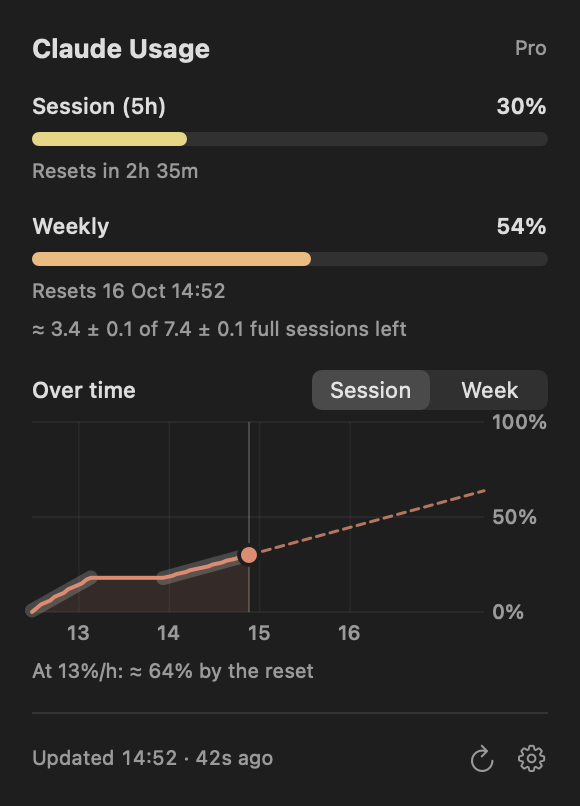
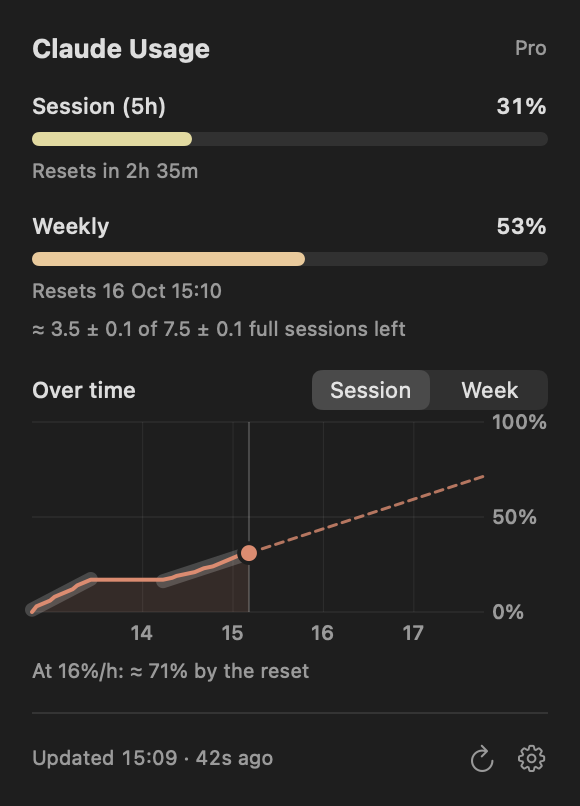
Close the dropdown on clicks at the top screen edge; pastel bar colors
With the pointer against the top of the screen, the press lands in the system menu
bar first (MenuBarExtra closes the dropdown as for an outside click) and is then
forwarded to the status item, whose button reopened it on release. Drop that
forwarded press and its release when the dropdown closed with it.

Re-pick the progress bar stops in OKLCH at similar lightness and low chroma so the
whole scale is pastel.

diff --git a/Sources/MacClaudeUsage/Views/MenuBarClickFix.swift b/Sources/MacClaudeUsage/Views/MenuBarClickFix.swift
@@ -1,0 +1,60 @@
+import AppKit
+
+/// Makes a click on the menu bar item close the open dropdown wherever on the item it lands,
+/// like the system's own items do.
+///
+/// With the pointer pushed against the top of the screen, the press first lands in the system's
+/// menu bar: MenuBarExtra closes the dropdown as for an outside click. The menu bar then
+/// forwards the press to our status item, whose button toggles the dropdown on release and
+/// opens it again. This drops that forwarded press when the dropdown closed with it, so the
+/// button never sees the click. Clicks right on the button take another path and are left
+/// alone; SwiftUI handles those fine.
+@MainActor
+enum MenuBarClickFix {
+    /// System uptime of the last time the dropdown closed.
+    private static var closedAt: TimeInterval = -.infinity
+    /// Set while a dropped press waits for its release, which is dropped too.
+    private static var droppedPressAt: TimeInterval?
+    private static var tokens: [Any] = []
+
+    static func install() {
+        for name in [NSWindow.didResignKeyNotification, NSWindow.didChangeOcclusionStateNotification] {
+            tokens.append(NotificationCenter.default.addObserver(forName: name, object: nil, queue: .main) { note in
+                guard let window = note.object as? NSWindow, isDropdown(window) else { return }
+                MainActor.assumeIsolated {
+                    if name == NSWindow.didResignKeyNotification || !window.isVisible {
+                        closedAt = ProcessInfo.processInfo.systemUptime
+                    }
+                }
+            })
+        }
+        tokens.append(NSEvent.addLocalMonitorForEvents(matching: [.leftMouseDown, .leftMouseUp]) { event in
+            guard let window = event.window, isStatusItem(window) else { return event }
+            let dropdownVisible = NSApp.windows.contains { isDropdown($0) && $0.isVisible }
+            let drop: Bool
+            if event.type == .leftMouseDown {
+                drop = closedWithPress(pressAt: event.timestamp, closedAt: closedAt, dropdownVisible: dropdownVisible)
+                droppedPressAt = drop ? event.timestamp : nil
+            } else {
+                drop = droppedPressAt.map { event.timestamp - $0 < 5 } ?? false
+                droppedPressAt = nil
+            }
+            return drop ? nil : event
+        } as Any)
+    }
+
+    /// The dropdown is closed, and it closed right as this press started: the press is what
+    /// closed it, so it mustn't also count as a click that opens it.
+    nonisolated static func closedWithPress(pressAt: TimeInterval, closedAt: TimeInterval, dropdownVisible: Bool) -> Bool {
+        !dropdownVisible && closedAt >= pressAt - 0.05 && closedAt <= pressAt + 0.5
+    }
+
+    // Private AppKit/SwiftUI class names: if they ever change, this quietly does nothing.
+    nonisolated private static func isStatusItem(_ window: NSWindow) -> Bool {
+        String(describing: type(of: window)) == "NSStatusBarWindow"
+    }
+
+    nonisolated private static func isDropdown(_ window: NSWindow) -> Bool {
+        String(describing: type(of: window)).hasPrefix("MenuBarExtraWindow")
+    }
+}

diff --git a/Tests/MacClaudeUsageTests/MacClaudeUsageTests.swift b/Tests/MacClaudeUsageTests/MacClaudeUsageTests.swift
@@ -228,6 +228,16 @@ import Testing
                 == #""/Apps/Claude Usage.app/Contents/MacOS/MacClaudeUsage" --statusline"#)
     }
 
+    @Test func pressThatClosedTheDropdownIsDropped() {
+        // Times from a real click at the top edge of the screen: the dropdown closed 6 ms after the press.
+        #expect(MenuBarClickFix.closedWithPress(pressAt: 947648.102, closedAt: 947648.108, dropdownVisible: false))
+        // Closed a second before: this press is meant to open it again.
+        #expect(!MenuBarClickFix.closedWithPress(pressAt: 947646.994, closedAt: 947645.772, dropdownVisible: false))
+        // Still open: SwiftUI's own toggle closes it.
+        #expect(!MenuBarClickFix.closedWithPress(pressAt: 10, closedAt: 10, dropdownVisible: true))
+        #expect(!MenuBarClickFix.closedWithPress(pressAt: 10, closedAt: -.infinity, dropdownVisible: false))
+    }
+
     @Test func menuBarText() {
         let now = Date()
         let snapshot = UsageSnapshot(session: UsageWindow(utilization: 12.6, resetsAt: now.addingTimeInterval(3600)),

diff --git a/Sources/MacClaudeUsage/Views/MenuContentView.swift b/Sources/MacClaudeUsage/Views/MenuContentView.swift
@@ -194,12 +194,14 @@ struct UsageBar: View {
         .animation(.easeOut(duration: 0.3), value: fraction)
     }
 
-    /// Pastel green → yellow → peach → rose, evenly spaced over 0…100%.
+    /// Pastel green → yellow → peach → rose, evenly spaced over 0…100%. Picked in OKLCH at
+    /// a similar lightness (0.80–0.88) and low chroma (≤ 0.09), so no end of the scale looks
+    /// louder than the others; lightness drops a little towards rose to carry the urgency.
     static let pastelStops: [(r: Double, g: Double, b: Double)] = [
-        (0.55, 0.82, 0.62),
-        (0.95, 0.84, 0.47),
-        (0.96, 0.66, 0.47),
-        (0.91, 0.46, 0.47)
+        (0.69, 0.89, 0.74),
+        (0.91, 0.85, 0.59),
+        (0.96, 0.74, 0.58),
+        (0.95, 0.65, 0.65)
     ]
 
     /// The solid bar color for `fraction`: the point on the pastel scale at that usage.

diff --git a/Sources/MacClaudeUsage/App/MacClaudeUsageApp.swift b/Sources/MacClaudeUsage/App/MacClaudeUsageApp.swift
@@ -3,6 +3,10 @@ import SwiftUI
 struct MacClaudeUsageApp: App {
     @StateObject private var store = UsageStore()
 
+    init() {
+        MenuBarClickFix.install()
+    }
+
     var body: some Scene {
         MenuBarExtra {
             MenuContentView(store: store)

diff --git a/CHANGELOG.md b/CHANGELOG.md
@@ -9,6 +9,10 @@ into the new version's section, and the release on GitHub uses it as release not
 
 ## Unreleased
 
+- Clicking the menu bar item closes the open dropdown even when the pointer is pushed against
+  the top of the screen; before, the dropdown hid while the button was held and came back.
+- Softer, fully pastel progress bar colors at every level.
+
 ## 1.1.0 - 2026-10-13
 
 - New usage chart in the dropdown for the current session or week: your usage over time, the
